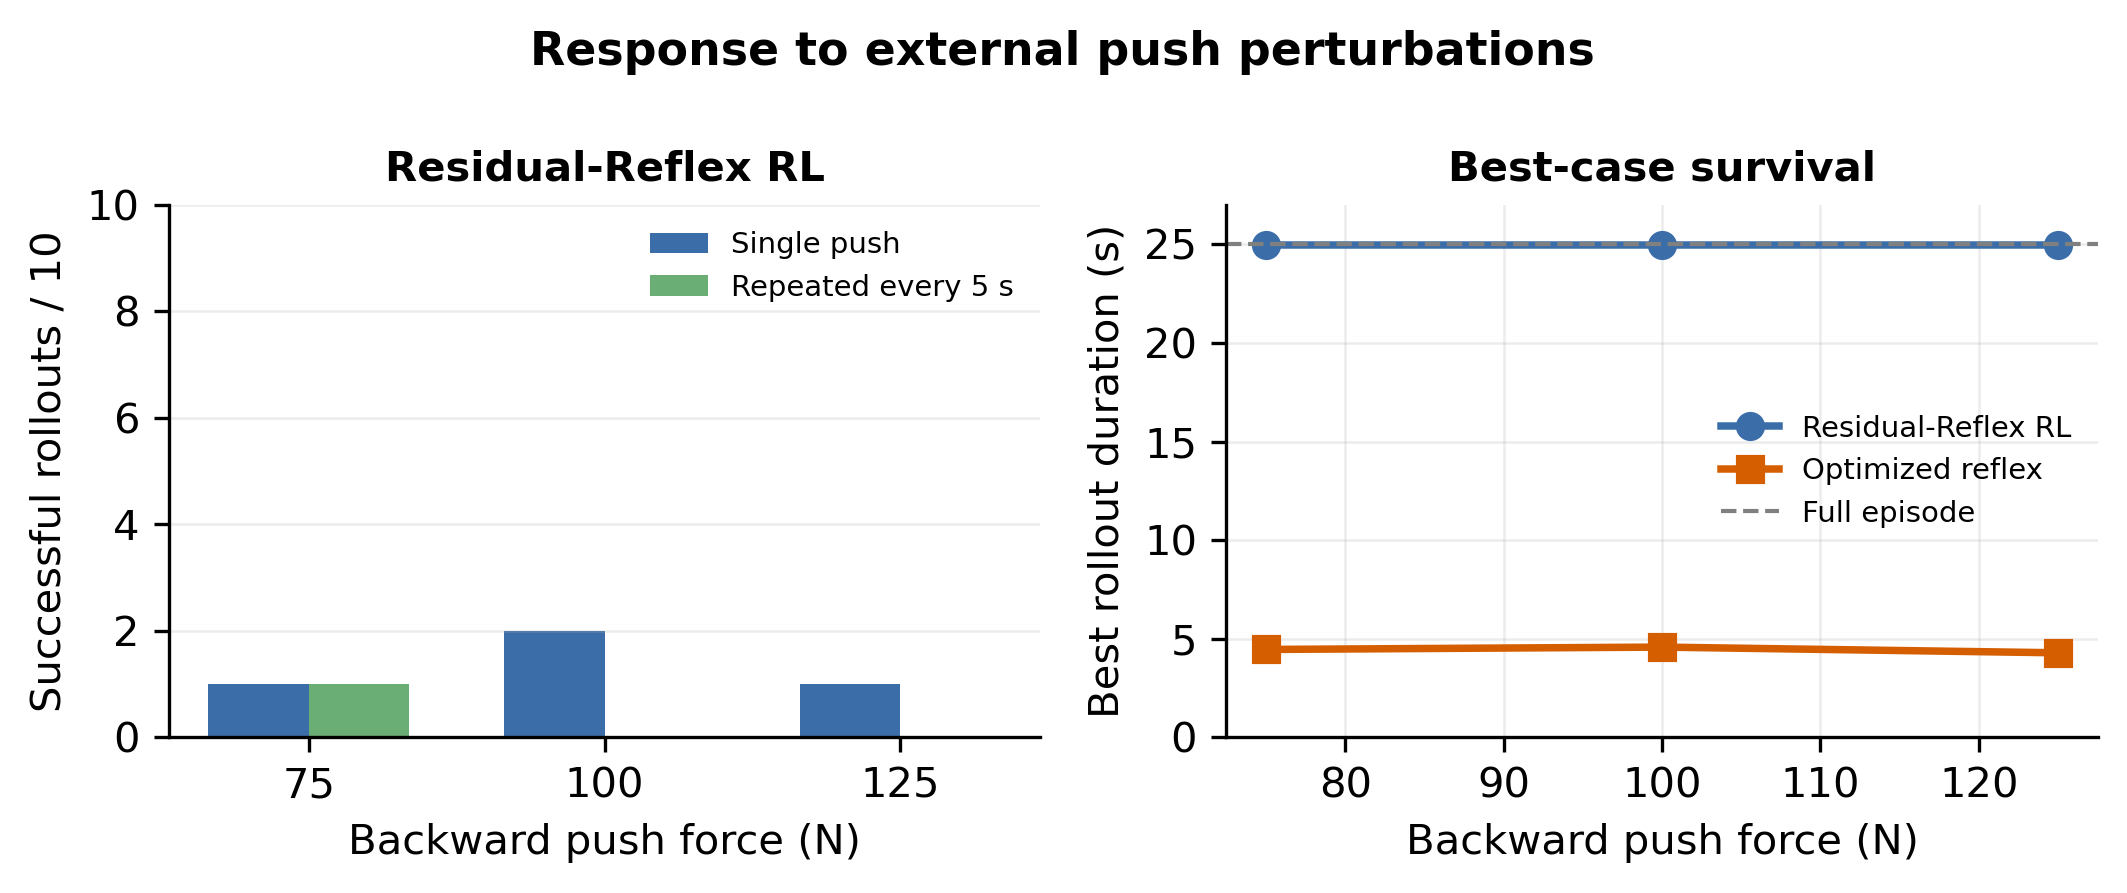
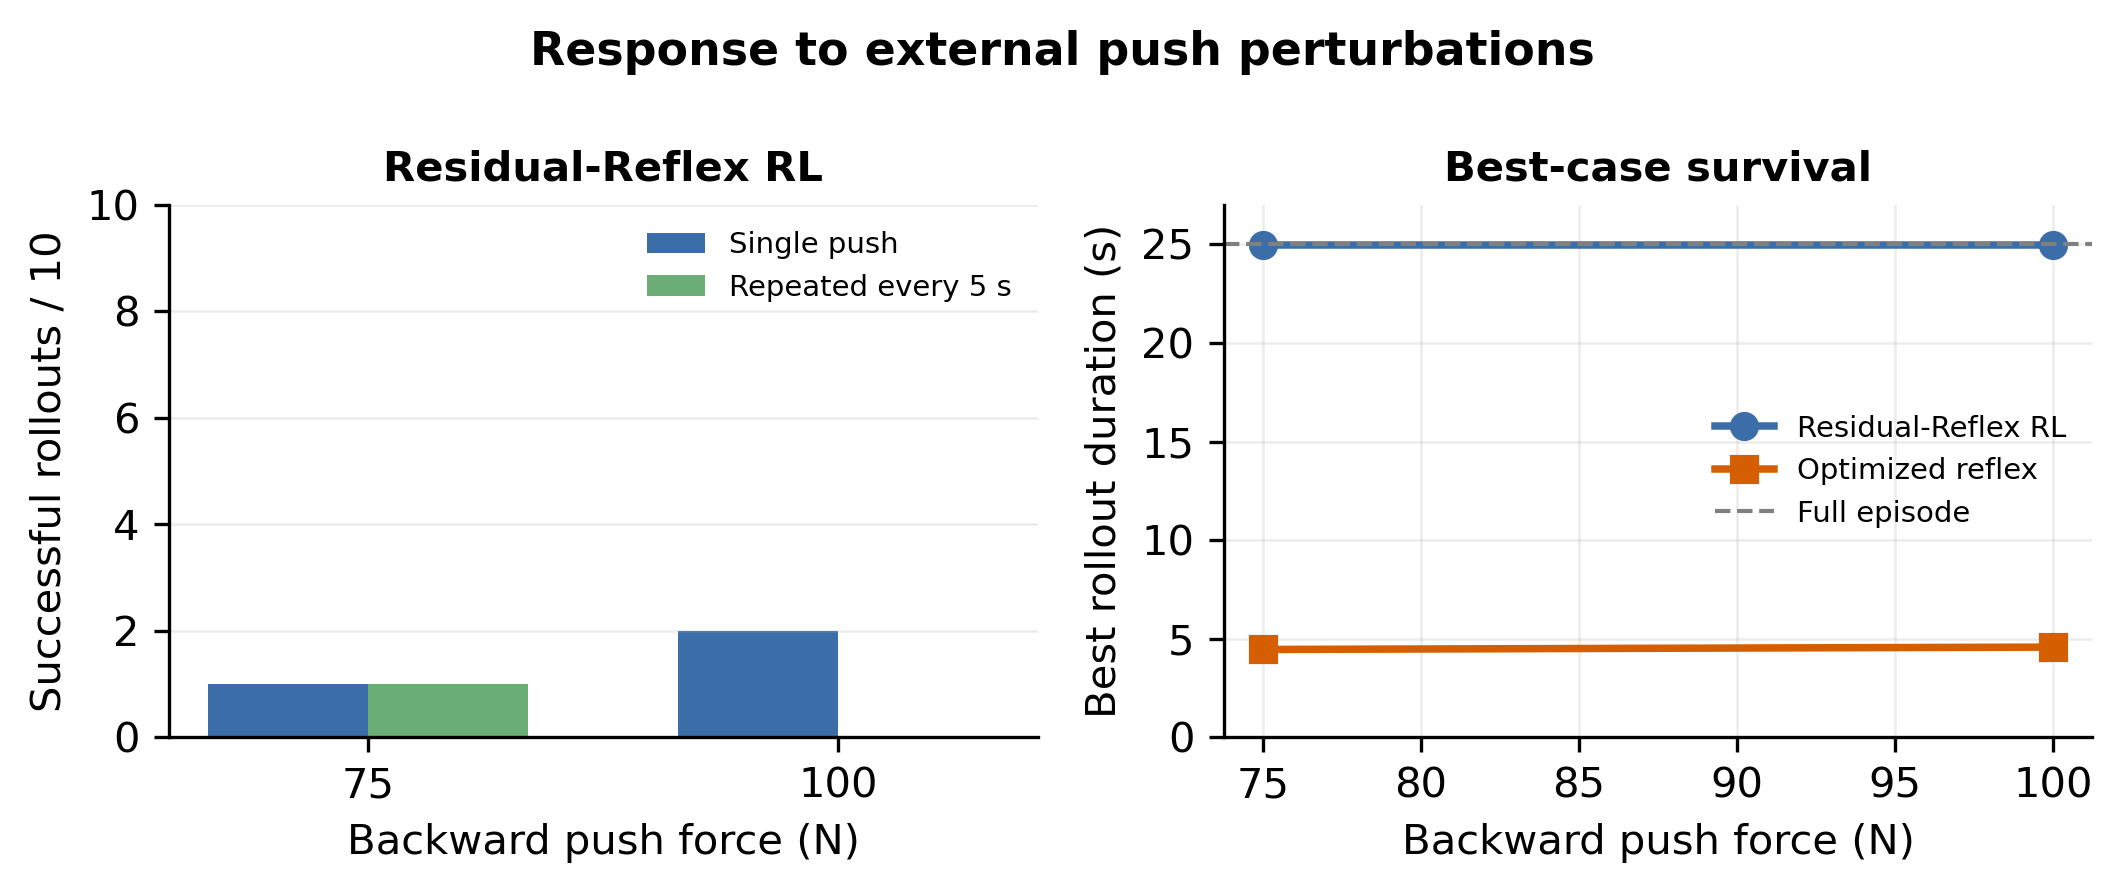
Refine push perturbation evaluation

diff --git a/main.tex b/main.tex
@@ -459,15 +459,16 @@ a residual action can increase or decrease a reflex parameter at different
 moments of the gait cycle.
 
 \subsection{External Push Perturbation}
-The perturbation experiment evaluates whether the trained residual-reflex policy
-can recover from disturbances that were not present during training. Backward
-force pulses were applied to the torso starting at 3~s. We tested single pushes
-of 75, 100, and 125~N, as well as repeated pushes every 5~s. Residual-Reflex RL
-was compared with the CMA-ES-optimized reflex controller. We report the number
-of successful rollouts, best rollout duration, and realized speed after the
-trained policy is evaluated without further learning. Representative
-trajectories and snapshots are used to inspect whether recovery corresponds to
-continued walking rather than a brief delayed fall.
+The perturbation experiment evaluates whether the trained residual-reflex
+controller can retain closed-loop walking after an unexpected environmental
+disturbance, again without retraining. Backward force pulses were applied to the
+torso starting at 3~s. We tested 75 and 100~N pushes, including both single
+pulses and repeated pulses every 5~s. Residual-Reflex RL was compared with the
+CMA-ES-optimized reflex controller under the same perturbation setting. We
+report the number of successful rollouts, best rollout duration, and realized
+speed after the trained policy is evaluated without further learning.
+Representative trajectories and snapshots are used to inspect whether recovery
+corresponds to continued walking rather than a brief delayed fall.
 
 \section{Results and Analysis}
 \label{sec:results-and-analysis}
@@ -811,21 +812,22 @@ four selected reflex pathways under the same trained policy.}
 \subsection{External Push Perturbation}
 \label{sec:perturbation_results}
 The external push experiment further evaluates whether the learned residual
-policy can tolerate disturbances that were not part of training. Backward force
-pulses were applied to the torso at 3~s. The CMA-ES-optimized reflex controller
-terminated after approximately 4.3--4.6~s for 75--125~N pushes. In contrast,
-Residual-Reflex RL produced full-episode recoveries in all three single-push
-conditions, although not every rollout succeeded because the policy remains
-stochastic during evaluation.
+policy can tolerate environmental disturbances that were not part of training.
+Backward force pulses were applied to the torso at 3~s. The CMA-ES-optimized
+reflex controller terminated after approximately 4.5~s for both 75 and 100~N
+pushes. In contrast, Residual-Reflex RL produced full-episode recoveries in the
+single-push conditions, although not every rollout succeeded because the policy
+remains stochastic during evaluation.
 
 Fig.~\ref{fig:push_perturbation} summarizes the perturbation outcomes. For
 single pushes, Residual-Reflex RL achieved at least one full 25~s rollout at
-75, 100, and 125~N, with two successful rollouts at 100~N. Repeated perturbation
-every 5~s was substantially harder: the 75~N repeated-push case still produced a
-full rollout, whereas 100~N and 125~N repeated pushes terminated before the full
-episode. This pattern identifies a graded robustness boundary: mild repeated
-perturbations can be handled, whereas stronger repeated pushes exceed the
-recovery capacity of the current controller.
+75 and 100~N, with two successful rollouts at 100~N. Repeated perturbations
+every 5~s were substantially harder: the 75~N repeated-push case still produced
+a full rollout, whereas the 100~N repeated-push case terminated before the full
+episode, with the best rollout lasting 20.1~s. This pattern identifies a
+recovery boundary: mild repeated perturbations can be handled, whereas stronger
+or more frequent disturbances exceed the recovery capacity of the current
+controller.
 Together with the weakness test, these results support the central claim that
 the learned residual policy provides a flexible reflex-parameter modulation
 mechanism beyond offline optimized reflex gains.
@@ -845,14 +847,11 @@ mechanism beyond offline optimized reflex gains.
 \midrule
 Residual-Reflex RL & Single push & 75~N  & 1/10 & 25.0~s \\
 Residual-Reflex RL & Single push & 100~N & 2/10 & 25.0~s \\
-Residual-Reflex RL & Single push & 125~N & 1/10 & 25.0~s \\
 Residual-Reflex RL & Every 5~s & 75~N  & 1/10 & 25.0~s \\
 Residual-Reflex RL & Every 5~s & 100~N & 0/10 & 20.1~s \\
-Residual-Reflex RL & Every 5~s & 125~N & 0/10 & 9.8~s \\
 \midrule
 CMA-ES reflex & Single push & 75~N  & 0/1 & 4.5~s \\
 CMA-ES reflex & Single push & 100~N & 0/1 & 4.6~s \\
-CMA-ES reflex & Single push & 125~N & 0/1 & 4.3~s \\
 \bottomrule
 \end{tabular}
 \end{table}
